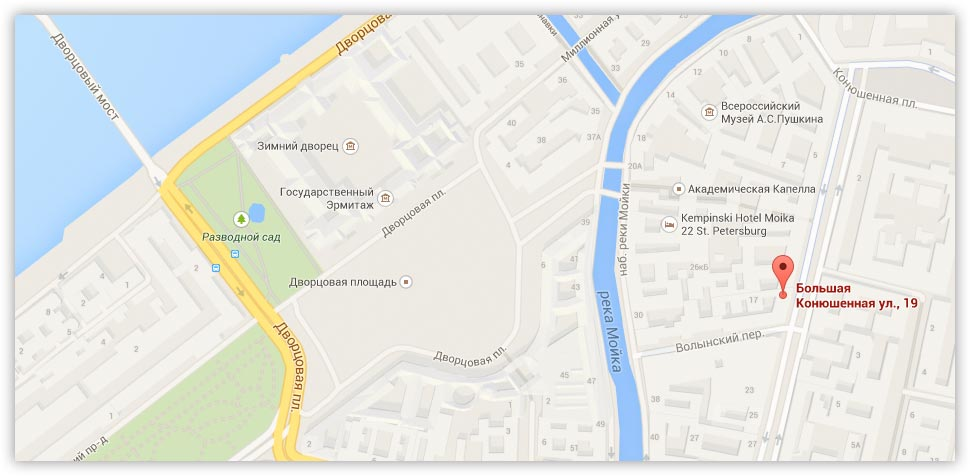
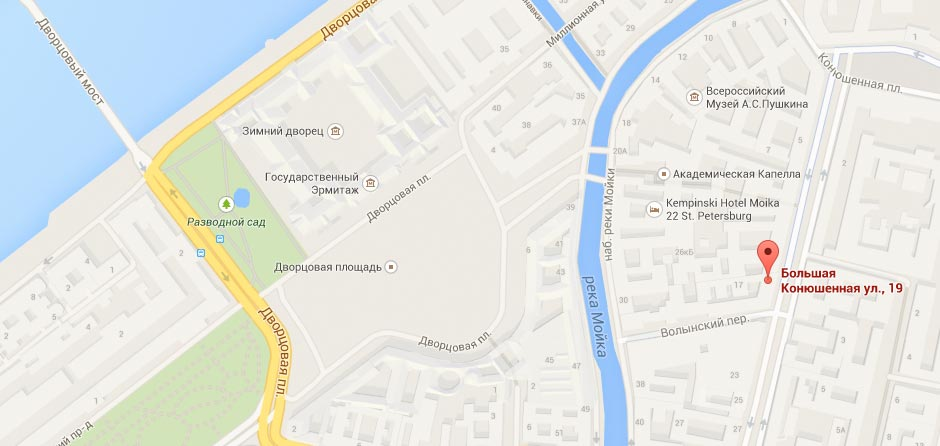
Исправил изображение карта

diff --git a/index.html b/index.html
@@ -291,7 +291,7 @@
     <section class="modal modal-map">
       <h2 class="visually-hidden">Как до нас добраться</h2>
       <p>
-        <img src="img/map-popup.jpg" width="970" height="476" alt="Офис компании по адрусу ул. Большая Конюшенная 19/8, Санкт-Петербург">
+        <img src="img/map-popup.jpg" width="940" height="446" alt="Офис компании по адрусу ул. Большая Конюшенная 19/8, Санкт-Петербург">
       </p>
       <button class="modal-close" type="button">Закрыть</button>
     </section>
